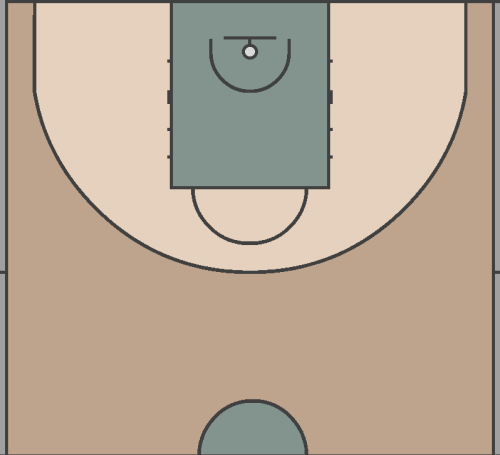
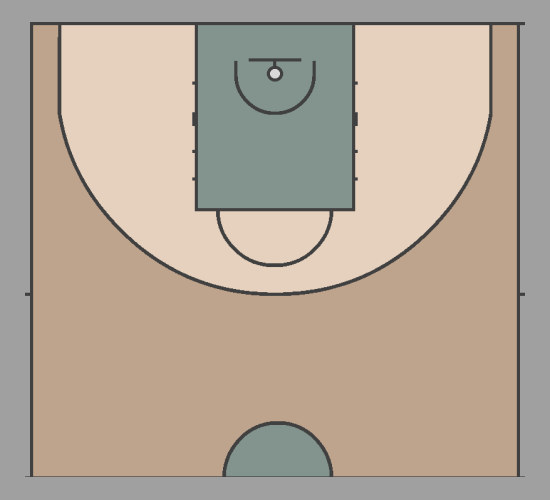
Added: Resized the Court (adding some spaces on the sides to be able to create inbound-plays)

Changed region(s): [[0.0, 0.0, 1.0, 1.0], [0.42, 0.4923, 0.54, 0.5538], [0.57, 0.0923, 0.6, 0.1538]]

diff --git a/prototype/script/main.js b/prototype/script/main.js
@@ -30,7 +30,7 @@ var initSymbols = function(step) {
     //ball
     var ball = new Ball("ball", step);
     ball.side = "neutral";
-    ball.setPosition("255px", "340px");
+    ball.setPosition("285px", "340px");
     
     //friendly players
     var myplayer1 = new Friend("myplayer1", "1", step);
@@ -43,11 +43,11 @@ var initSymbols = function(step) {
     myplayer3.side = "friendly";
     myplayer4.side = "friendly";
     myplayer5.side = "friendly";
-    myplayer1.setPosition("235px", "300px");
-    myplayer2.setPosition("80px", "165px");
-    myplayer3.setPosition("370px", "140px");
-    myplayer4.setPosition("150px", "-120px");
-    myplayer5.setPosition("315px", "-155px");
+    myplayer1.setPosition("265px", "300px");
+    myplayer2.setPosition("110px", "165px");
+    myplayer3.setPosition("400px", "140px");
+    myplayer4.setPosition("180px", "-120px");
+    myplayer5.setPosition("345px", "-155px");
     
     //opponent players
     var oppplayer1 = new Opponent("oppplayer1", "1", step);
@@ -60,11 +60,11 @@ var initSymbols = function(step) {
     oppplayer3.side = "opponent";
     oppplayer4.side = "opponent";
     oppplayer5.side = "opponent";
-    oppplayer1.setPosition("235px", "90px");
-    oppplayer2.setPosition("100px", "-20px");
-    oppplayer3.setPosition("350px", "-50px");
-    oppplayer4.setPosition("170px", "-270px");
-    oppplayer5.setPosition("300px", "-300px");
+    oppplayer1.setPosition("265px", "90px");
+    oppplayer2.setPosition("130px", "-20px");
+    oppplayer3.setPosition("380px", "-50px");
+    oppplayer4.setPosition("200px", "-270px");
+    oppplayer5.setPosition("330px", "-300px");
     
     //put every Symbol into a symbol-list
     var symbols = new Array();

diff --git a/prototype/script/Symbol.js b/prototype/script/Symbol.js
@@ -93,6 +93,7 @@ Symbol.prototype.makeDraggable = function() {
             var posX = symbol.getElement().css('left');
             var posY = symbol.getElement().css('top');
             symbol.setPosition(posX, posY);
+            console.log(posX + ", " + posY);
         }
     });
 };

diff --git a/prototype/css/main.css b/prototype/css/main.css
@@ -1,7 +1,7 @@
 .court {
   background-image: url(../images/basketball_half.png);
-  width:500px;
-  height:455px;
+  width:550px;
+  height:500px;
   z-index:-1;
 }
 
